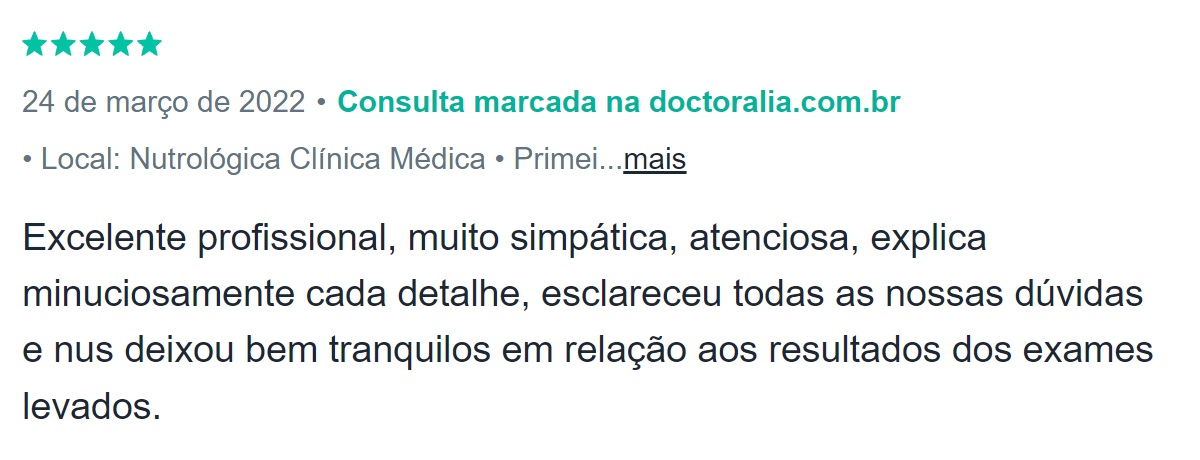
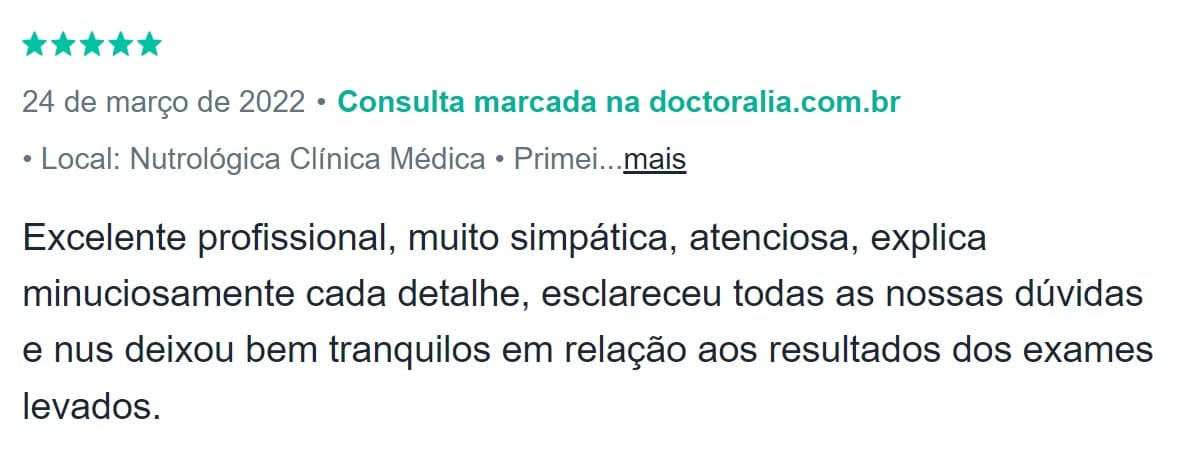
resize image files and removed the test articles on blog

diff --git a/src/components/blogSection/index.tsx b/src/components/blogSection/index.tsx
@@ -5,15 +5,17 @@ import styled from "styled-components"
 import { BlogBanner } from "./blogBanner"
 import { ArticleList } from "./articleList"
 import { SectionEmpty } from "./sectionEmpty"
-import { articles } from "@json/articles.json"
+import { articles, emptyList } from "@json/articles.json"
 
 export const BlogSection = () => {
+    const articlesList = emptyList;
+    
     return (
         <Container data-testid="blogSection">
             <Header />
             <BlogBanner />
-            {articles.length > 0
-                ? <ArticleList articles={articles}/>
+            {articlesList.length > 0
+                ? <ArticleList articles={articlesList}/>
                 : <SectionEmpty />
             }
             <Footer />

diff --git a/src/components/blogSection/articleList/index.tsx b/src/components/blogSection/articleList/index.tsx
@@ -47,8 +47,7 @@ export const ArticleList: React.FC<IArticleListProps> = ({ articles }) => {
                             Dra. Lorenza Arruda
                         </h4>
                     </Link>
-                )
-                }
+                )}
             </List>
             <LoadMoreButton onClick={handleLoadMoreArticles} disabled={articlesPerPage >= articles.length} $disableButton={disableButton}>
                 <FontAwesomeIcon icon={faAdd} />
